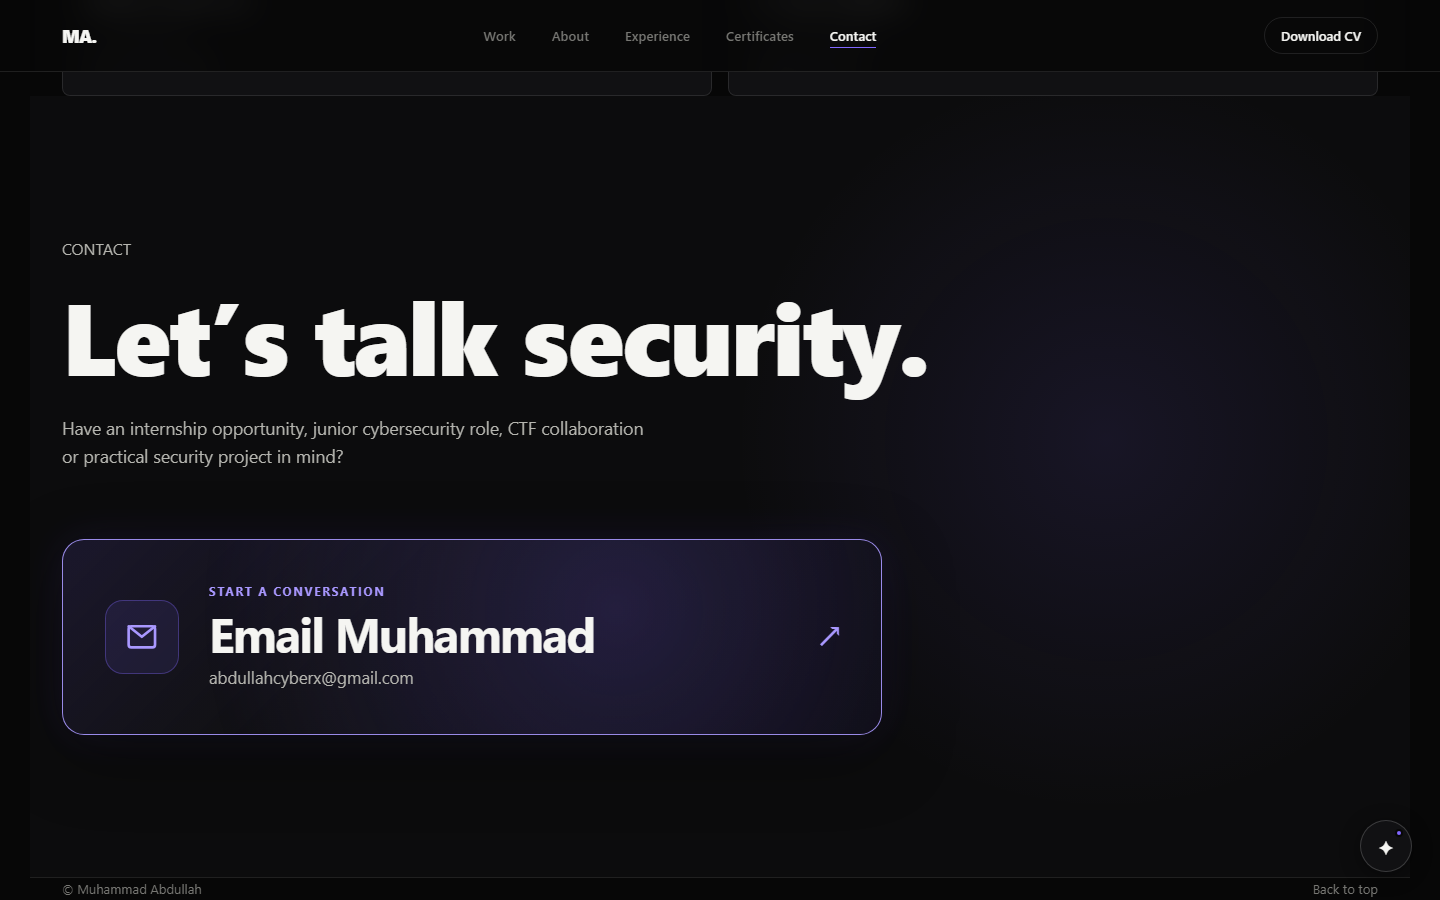
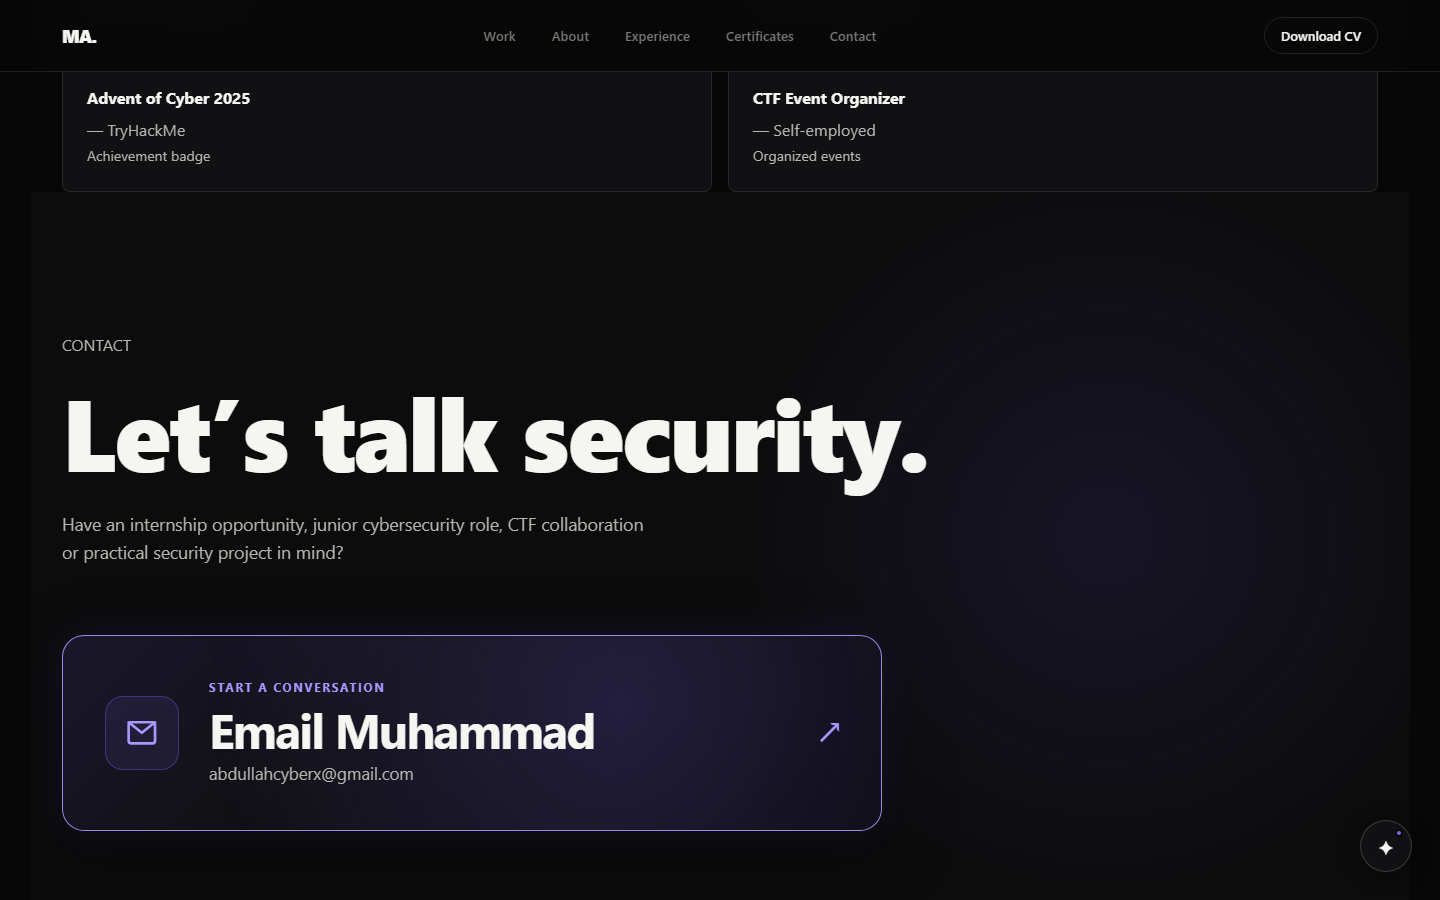
Fix mobile Gmail visibility and AI overlap

diff --git a/src/style.css b/src/style.css
@@ -2230,11 +2230,64 @@ body.ai-open {
     border-right: 0;
   }
 
+  .contact-section {
+    padding-top: 80px;
+    padding-bottom: calc(140px + env(safe-area-inset-bottom));
+  }
+
+  .contact-hero {
+    font-size: clamp(3rem, 15vw, 4.6rem);
+    line-height: 0.95;
+  }
+
   .gmail-contact {
+    width: 100%;
+    min-width: 0;
+    margin-top: 36px;
+    padding: 24px 20px;
+    gap: 16px;
     grid-template-columns: auto minmax(0, 1fr);
     min-height: auto;
-    padding: 24px 20px;
     border-radius: 18px;
+    background: linear-gradient(
+      145deg,
+      rgba(129, 103, 255, 0.18),
+      rgba(20, 18, 30, 0.98) 44%,
+      rgba(12, 12, 14, 0.99)
+    );
+    border-color: rgba(169, 152, 255, 0.65);
+    box-shadow:
+      0 16px 48px rgba(0, 0, 0, 0.38),
+      0 0 32px rgba(129, 103, 255, 0.14);
+    opacity: 1 !important;
+    transform: none !important;
+  }
+
+  .gmail-contact-copy {
+    min-width: 0;
+  }
+
+  .gmail-contact-copy small {
+    color: #b9aaff;
+  }
+
+  .gmail-contact-copy strong {
+    color: #f5f5f2;
+    opacity: 1 !important;
+    font-size: clamp(1.55rem, 8vw, 2.15rem);
+    line-height: 1.05;
+  }
+
+  .gmail-contact-copy span {
+    color: #b8b8b2;
+    opacity: 1 !important;
+    overflow-wrap: anywhere;
+  }
+
+  .gmail-contact-icon {
+    color: #b9aaff;
+    border-color: rgba(169, 152, 255, 0.45);
+    background: rgba(129, 103, 255, 0.15);
   }
 
   .gmail-contact-arrow {
@@ -2254,6 +2307,12 @@ body.ai-open {
   .ai-float-btn {
     bottom: 20px;
     right: 20px;
+    transition: transform 300ms var(--ease);
+  }
+
+  body.contact-visible .ai-float-btn,
+  body.contact-visible [data-ai-open] {
+    transform: translateY(-92px);
   }
 
   footer {

diff --git a/src/main.js b/src/main.js
@@ -22,6 +22,24 @@
 
   document.querySelectorAll(".reveal").forEach((el) => observer.observe(el));
 
+  const contactObserver = new IntersectionObserver(
+    (entries) => {
+      entries.forEach((entry) => {
+        if (entry.isIntersecting) {
+          document.body.classList.add("contact-visible");
+        } else {
+          document.body.classList.remove("contact-visible");
+        }
+      });
+    },
+    { threshold: 0.1 },
+  );
+
+  const contactSection = document.getElementById("contact");
+  if (contactSection) {
+    contactObserver.observe(contactSection);
+  }
+
   /* -------------------------
      Header & Active Navigation
      ------------------------- */
